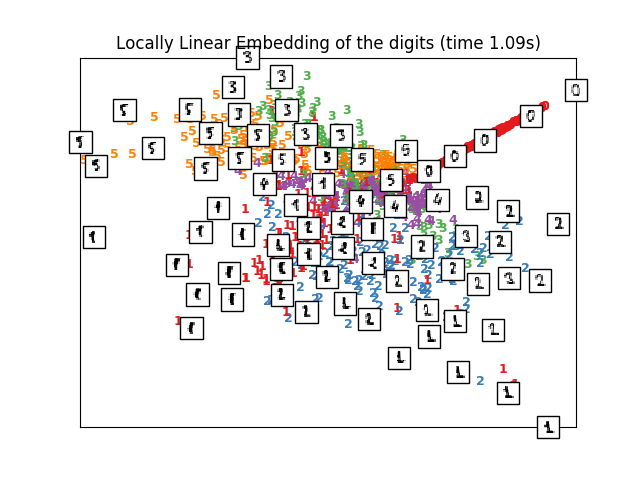
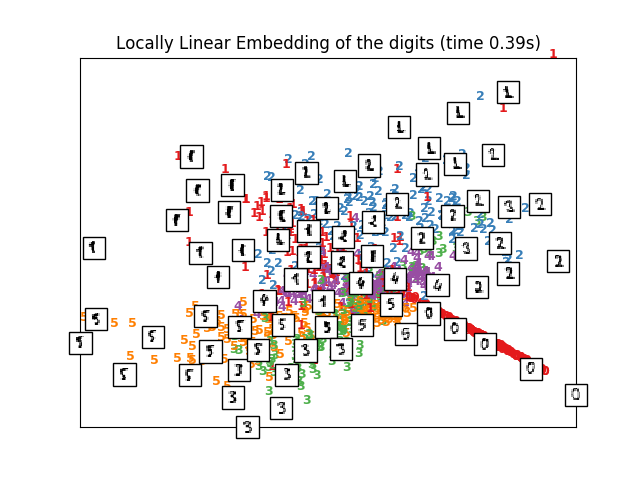
Manifold learning for out 20 data points.

diff --git a/ObjectRecognition/Multi-Shot/Manifold_learning_our_dataset.py b/ObjectRecognition/Multi-Shot/Manifold_learning_our_dataset.py
@@ -1,16 +1,16 @@
 from time import time
-
+import sklearn.decomposition as deco
 import numpy as np
 import matplotlib.pyplot as plt
-from matplotlib import offsetbox
+from mpl_toolkits import mplot3d
+from database_actions import get_known_encodings
 from sklearn import (manifold, datasets, decomposition, ensemble,
                      discriminant_analysis, random_projection)
 
-digits = datasets.load_digits(n_class=6)
-X = digits.data
-y = digits.target
+digits = get_known_encodings()
+X, y = get_known_encodings()
 n_samples, n_features = X.shape
-n_neighbors = 30
+n_neighbors = 21
 
 
 #----------------------------------------------------------------------
@@ -20,80 +20,36 @@ def plot_embedding(X, title=None):
     X = (X - x_min) / (x_max - x_min)
 
     plt.figure()
-    ax = plt.subplot(111)
-    for i in range(X.shape[0]):
-        plt.text(X[i, 0], X[i, 1], str(y[i]),
-                 color=plt.cm.Set1(y[i] / 10.),
-                 fontdict={'weight': 'bold', 'size': 9})
+    scatter_x = X[:, 0]
+    scatter_y = X[:, 1]
+    group = map(int, y)
+    cdict = {5: 'red', 6: 'blue', 7: 'green', 8: 'black', 9: 'orange'}
 
-    if hasattr(offsetbox, 'AnnotationBbox'):
-        # only print thumbnails with matplotlib > 1.0
-        shown_images = np.array([[1., 1.]])  # just something big
-        for i in range(X.shape[0]):
-            dist = np.sum((X[i] - shown_images) ** 2, 1)
-            if np.min(dist) < 4e-3:
-                # don't show points that are too close
-                continue
-            shown_images = np.r_[shown_images, [X[i]]]
-            imagebox = offsetbox.AnnotationBbox(
-                offsetbox.OffsetImage(digits.images[i], cmap=plt.cm.gray_r),
-                X[i])
-            ax.add_artist(imagebox)
-    plt.xticks([]), plt.yticks([])
+    ax = plt.axes()
+    for g in np.unique(group):
+        ix = np.where(group == g)
+        ax.scatter(scatter_x[ix], scatter_y[ix], c=cdict[g], label=g, s=100)
+    ax.legend()
+    plt.xlabel("X")
+    plt.ylabel("Y")
+
     if title is not None:
         plt.title(title)
 
-
-#----------------------------------------------------------------------
-# Plot images of the digits
-n_img_per_row = 20
-img = np.zeros((10 * n_img_per_row, 10 * n_img_per_row))
-for i in range(n_img_per_row):
-    ix = 10 * i + 1
-    for j in range(n_img_per_row):
-        iy = 10 * j + 1
-        img[ix:ix + 8, iy:iy + 8] = X[i * n_img_per_row + j].reshape((8, 8))
-
-plt.imshow(img, cmap=plt.cm.binary)
-plt.xticks([])
-plt.yticks([])
-plt.title('A selection from the 64-dimensional digits dataset')
-
-
-#----------------------------------------------------------------------
-# Random 2D projection using a random unitary matrix
-print("Computing random projection")
-rp = random_projection.SparseRandomProjection(n_components=2, random_state=42)
-X_projected = rp.fit_transform(X)
-plot_embedding(X_projected, "Random Projection of the digits")
-plt.savefig("figures/Reduction/random")
-
-#----------------------------------------------------------------------
-# Projection on to the first 2 principal components
-
-print("Computing PCA projection")
-t0 = time()
-X_pca = decomposition.TruncatedSVD(n_components=2).fit_transform(X)
-plot_embedding(X_pca,
-               "Principal Components projection of the digits (time %.2fs)" %
-               (time() - t0))
-plt.savefig("figures/Reduction/pca")
-
-#----------------------------------------------------------------------
-# Projection on to the first 2 linear discriminant components
-
+# #----------------------------------------------------------------------
+# # Projection on to the first 2 priciple components
 print("Computing Linear Discriminant Analysis projection")
-X2 = X.copy()
-X2.flat[::X.shape[1] + 1] += 0.01  # Make X invertible
 t0 = time()
-X_lda = discriminant_analysis.LinearDiscriminantAnalysis(n_components=2).fit_transform(X2, y)
-plot_embedding(X_lda,
+x = (X - np.mean(X, 0)) / np.std(X, 0)
+pca = deco.PCA(n_components = 2)
+x_pca = pca.fit(x).transform(x)
+plot_embedding(x_pca,
                "Linear Discriminant projection of the digits (time %.2fs)" %
                (time() - t0))
-plt.savefig("figures/Reduction/pca_discriminant")
+plt.savefig("figures/Reduction_OurDataSet/pca_discriminant")
 
-#----------------------------------------------------------------------
-# Isomap projection of the digits dataset
+# #----------------------------------------------------------------------
+# # Isomap projection of the digits dataset
 print("Computing Isomap embedding")
 t0 = time()
 X_iso = manifold.Isomap(n_neighbors, n_components=2).fit_transform(X)
@@ -101,10 +57,10 @@ print("Done.")
 plot_embedding(X_iso,
                "Isomap projection of the digits (time %.2fs)" %
                (time() - t0))
-plt.savefig("figures/Reduction/isomap")
+plt.savefig("figures/Reduction_OurDataSet/isomap")
 
-#----------------------------------------------------------------------
-# Locally linear embedding of the digits dataset
+# #----------------------------------------------------------------------
+# # Locally linear embedding of the digits dataset
 print("Computing LLE embedding")
 clf = manifold.LocallyLinearEmbedding(n_neighbors, n_components=2,
                                       method='standard')
@@ -114,10 +70,10 @@ print("Done. Reconstruction error: %g" % clf.reconstruction_error_)
 plot_embedding(X_lle,
                "Locally Linear Embedding of the digits (time %.2fs)" %
                (time() - t0))
-plt.savefig("figures/Reduction/local_linear_embedding")
+plt.savefig("figures/Reduction_OurDataSet/local_linear_embedding")
 
-#----------------------------------------------------------------------
-# Modified Locally linear embedding of the digits dataset
+# #----------------------------------------------------------------------
+# # Modified Locally linear embedding of the digits dataset
 print("Computing modified LLE embedding")
 clf = manifold.LocallyLinearEmbedding(n_neighbors, n_components=2,
                                       method='modified')
@@ -127,10 +83,10 @@ print("Done. Reconstruction error: %g" % clf.reconstruction_error_)
 plot_embedding(X_mlle,
                "Modified Locally Linear Embedding of the digits (time %.2fs)" %
                (time() - t0))
-plt.savefig("figures/Reduction/modified_local_linear_embedding")
+plt.savefig("figures/Reduction_OurDataSet/modified_local_linear_embedding")
 
-#----------------------------------------------------------------------
-# HLLE embedding of the digits dataset
+# #----------------------------------------------------------------------
+# # HLLE embedding of the digits dataset
 print("Computing Hessian LLE embedding")
 clf = manifold.LocallyLinearEmbedding(n_neighbors, n_components=2,
                                       method='hessian')
@@ -140,11 +96,11 @@ print("Done. Reconstruction error: %g" % clf.reconstruction_error_)
 plot_embedding(X_hlle,
                "Hessian Locally Linear Embedding of the digits (time %.2fs)" %
                (time() - t0))
-plt.savefig("figures/Reduction/hlle")
+plt.savefig("figures/Reduction_OurDataSet/hlle")
 
 
-#----------------------------------------------------------------------
-# LTSA embedding of the digits dataset
+# #----------------------------------------------------------------------
+# # LTSA embedding of the digits dataset
 print("Computing LTSA embedding")
 clf = manifold.LocallyLinearEmbedding(n_neighbors, n_components=2,
                                       method='ltsa')
@@ -154,10 +110,10 @@ print("Done. Reconstruction error: %g" % clf.reconstruction_error_)
 plot_embedding(X_ltsa,
                "Local Tangent Space Alignment of the digits (time %.2fs)" %
                (time() - t0))
-plt.savefig("figures/Reduction/ltsa")
+plt.savefig("figures/Reduction_OurDataSet/ltsa")
 
-#----------------------------------------------------------------------
-# MDS  embedding of the digits dataset
+# #----------------------------------------------------------------------
+# # MDS  embedding of the digits dataset
 print("Computing MDS embedding")
 clf = manifold.MDS(n_components=2, n_init=1, max_iter=100)
 t0 = time()
@@ -166,10 +122,10 @@ print("Done. Stress: %f" % clf.stress_)
 plot_embedding(X_mds,
                "MDS embedding of the digits (time %.2fs)" %
                (time() - t0))
-plt.savefig("figures/Reduction/mds")
+plt.savefig("figures/Reduction_OurDataSet/mds")
 
-#----------------------------------------------------------------------
-# Random Trees embedding of the digits dataset
+# #----------------------------------------------------------------------
+# # Random Trees embedding of the digits dataset
 print("Computing Totally Random Trees embedding")
 hasher = ensemble.RandomTreesEmbedding(n_estimators=200, random_state=0,
                                        max_depth=5)
@@ -181,10 +137,10 @@ X_reduced = pca.fit_transform(X_transformed)
 plot_embedding(X_reduced,
                "Random forest embedding of the digits (time %.2fs)" %
                (time() - t0))
-plt.savefig("figures/Reduction/random_trees")
+plt.savefig("figures/Reduction_OurDataSet/random_trees")
 
-#----------------------------------------------------------------------
-# Spectral embedding of the digits dataset
+# #----------------------------------------------------------------------
+# # Spectral embedding of the digits dataset
 print("Computing Spectral embedding")
 embedder = manifold.SpectralEmbedding(n_components=2, random_state=0,
                                       eigen_solver="arpack")
@@ -194,7 +150,7 @@ X_se = embedder.fit_transform(X)
 plot_embedding(X_se,
                "Spectral embedding of the digits (time %.2fs)" %
                (time() - t0))
-plt.savefig("figures/Reduction/spectral")
+plt.savefig("figures/Reduction_OurDataSet/spectral")
 
 #----------------------------------------------------------------------
 # t-SNE embedding of the digits dataset
@@ -208,5 +164,5 @@ plot_embedding(X_tsne,
                "t-SNE embedding of the digits (time %.2fs)" %
                (time() - t0))
 
-plt.savefig("figures/Reduction/tsne")
+plt.savefig("figures/Reduction_OurDataSet/tsne")
 plt.show()

diff --git a/ObjectRecognition/Multi-Shot/classify.py b/ObjectRecognition/Multi-Shot/classify.py
@@ -101,6 +101,7 @@ def run_classify(model_name_time):
             correct += 1
     print "Correct: " + str(correct)
 
+run_classify("model18-02-2019-20:51")
 
 def run_classify_imagenet():
     """
@@ -130,4 +131,4 @@ def run_classify_imagenet():
         database_actions.add_encoding(encoding, label)
 
 
-run_classify_imagenet()
+# run_classify_imagenet()

diff --git a/ObjectRecognition/Multi-Shot/t_sne.py b/ObjectRecognition/Multi-Shot/t_sne.py
@@ -119,6 +119,6 @@ def plot2D(data, labels):
     plt.savefig("figures/tsne_current_encodings_2D")
     plt.show()
 
-# pca_data, db_labels = t_sne()
-# plot3D(pca_data, db_labels)
-# plot2D(pca_data, db_labels)
+pca_data, db_labels = t_sne()
+plot3D(pca_data, db_labels)
+plot2D(pca_data, db_labels)
